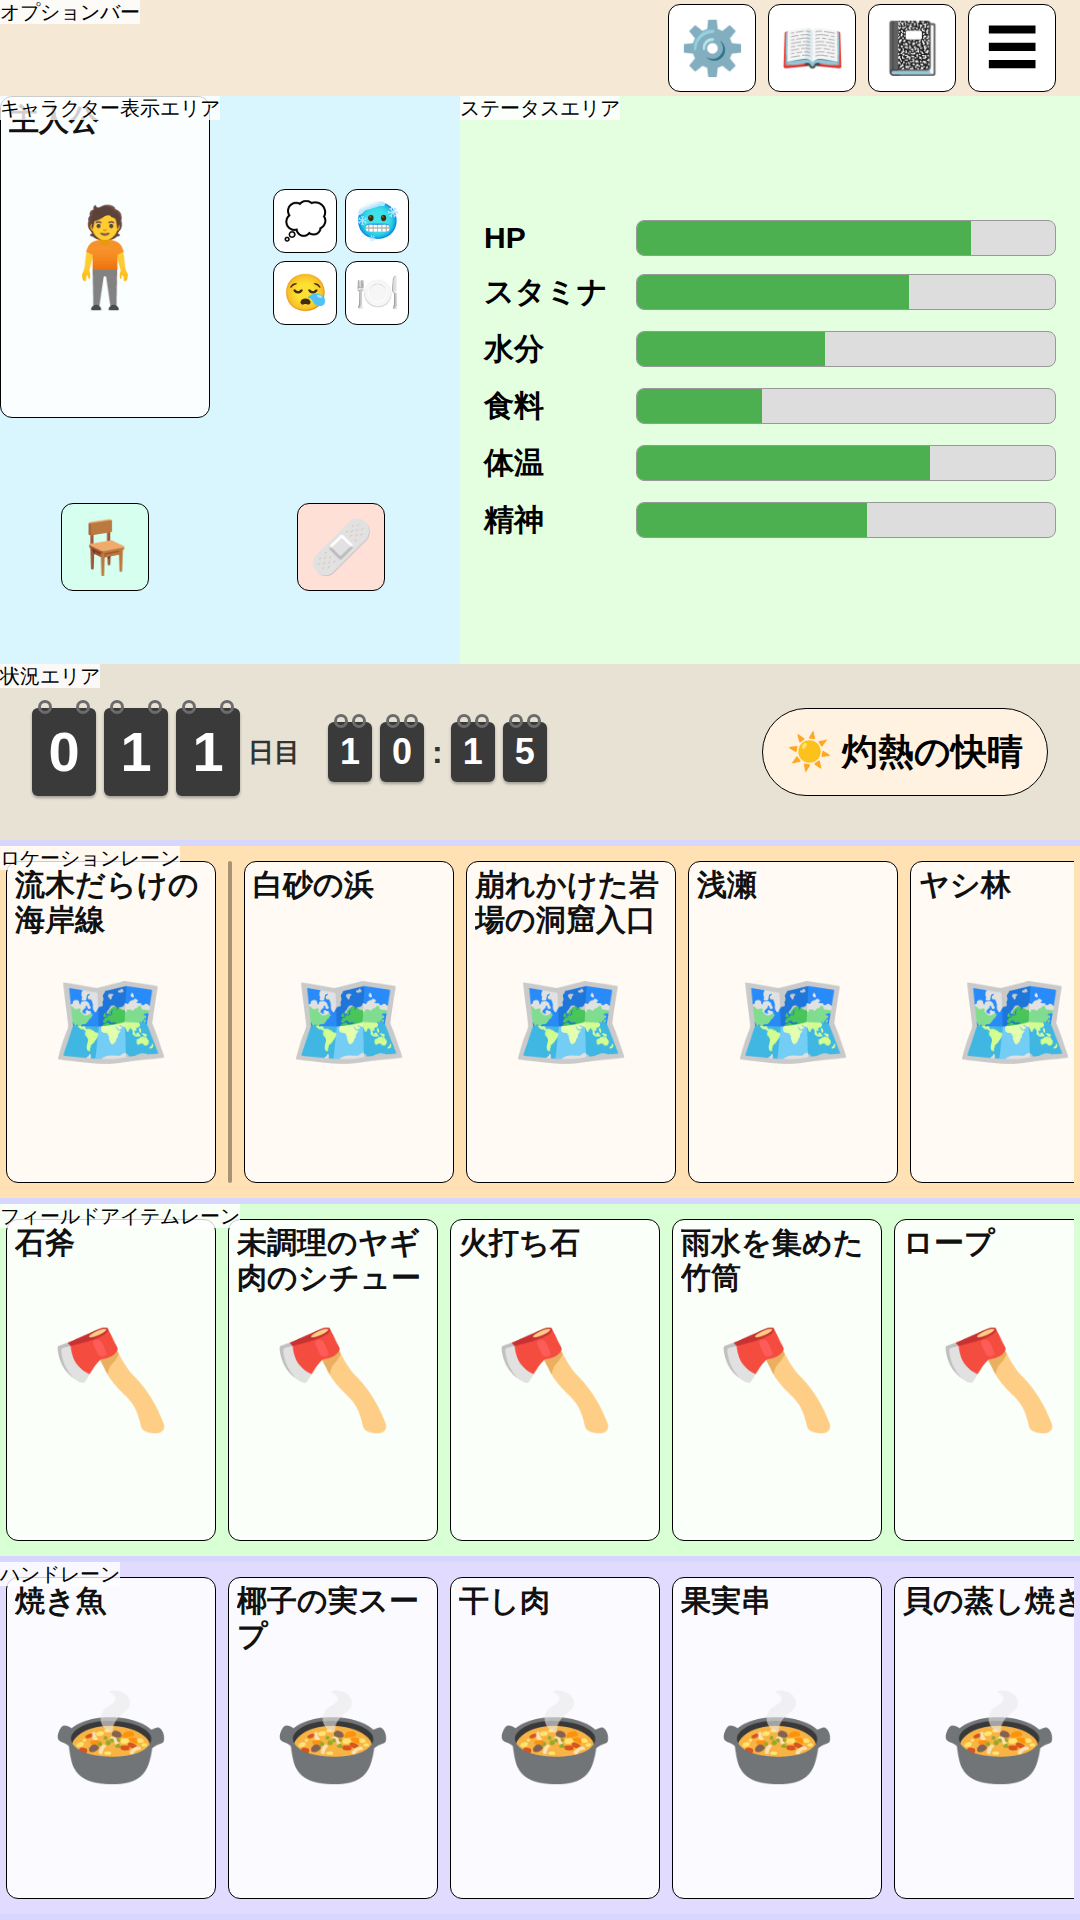
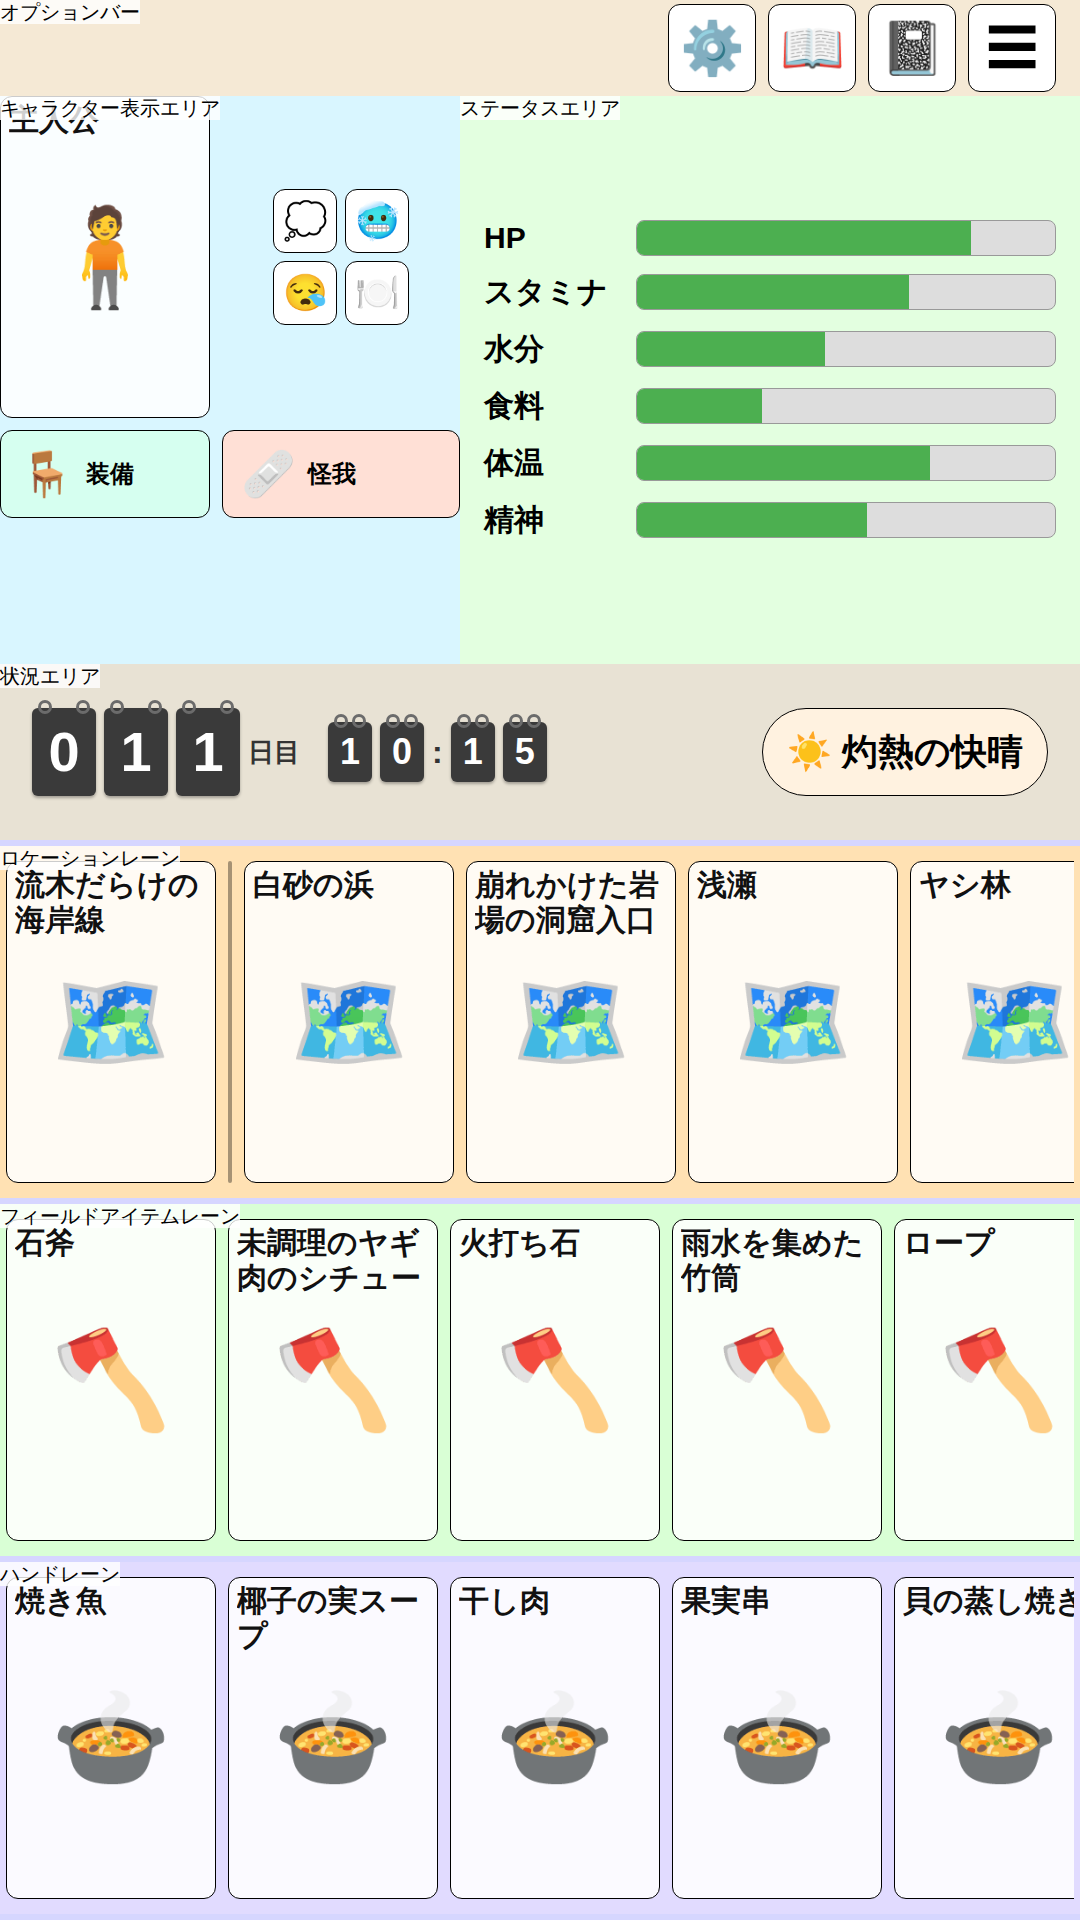
docs: 装備・怪我ボタンにラベルを復活させ、横型の配置を再構成
- 装備・怪我ボタンに「装備」「怪我」の固定ラベルをアイコンの右に表示。
  正方形ではなく列・セル幅いっぱいの横長ボタンにした（アイテム名は
  表示せず、タップ先の子ウィンドウで確認する想定）
- 横型のキャラクター表示エリアを、左にポートレイトカード、右の縦列に
  条件ボタンの行・装備ボタン・怪我ボタンを並べる構成に変更。縦型は
  従来どおり2x2グリッドのまま
- HTML側は info-column ラッパーに display:contents を使い、縦型では
  2x2グリッドの子として、横型では独立した縦並びのflex列として
  同じマークアップを再利用できるようにした

Claude-Session: https://claude.ai/code/session_017mz69xFpjWLJMvgraCLnuJ

Changed region(s): [[0.1833, 0.2188, 0.4278, 0.3125], [0.0306, 0.2188, 0.1222, 0.3125]]

diff --git a/Documents/UI/ScreenLayout_Mock.html b/Documents/UI/ScreenLayout_Mock.html
@@ -147,6 +147,11 @@
 
     .portrait-wrap { position: relative; }
 
+    /* 縦型: display:contents で自身を消し、子（条件セル・装備・怪我）を
+       character-display の2×2グリッドへそのまま参加させる。
+       横型ではこのラッパー自体が縦並びの列になる（横型メディアクエリ参照） */
+    .info-column { display: contents; }
+
     .portrait-card {
       width: var(--portrait-w);
       height: var(--portrait-h);
@@ -183,10 +188,23 @@
       font-size: calc(36 * var(--u));
     }
 
+    /* 装備・怪我は種別が分かるよう「装備」「怪我」の固定ラベルをアイコンの右に付ける
+       （アイテム名は表示せず、タップ先の子ウィンドウで確認する想定）。
+       正方形ではなく横長のボタンにするため、幅はセル・列いっぱいに広げる */
     .icon-button--equipment,
     .icon-button--injury {
-      justify-self: center;
-      align-self: center;
+      width: 100%;
+      justify-content: flex-start;
+      gap: calc(12 * var(--u));
+      padding: 0 calc(18 * var(--u));
+    }
+
+    .icon-button-icon { font-size: calc(44 * var(--u)); line-height: 1; }
+
+    .icon-button-label {
+      font-size: calc(24 * var(--u));
+      font-weight: 700;
+      line-height: 1;
     }
 
     .icon-button--equipment { background: #d6fff0; }
@@ -419,7 +437,8 @@
     @media (orientation: landscape) {
       /* 天候を日時から切り離し、状況エリアを日時だけの幅で済ませることで
          ダッシュボード列を絞り、浮いた横幅をフィールドエリアに回す。
-         キャラクター表示エリアは縦型と同じグリッド構造をそのまま使う */
+         キャラクター表示エリアは左にポートレイトカード、右の列に条件セル・
+         装備・怪我を縦に並べる構成に変える（縦型は2×2グリッドのまま） */
       .screen { flex-direction: row; }
 
       /* 天候が抜けて日時だけになった分、状況エリアの高さも内容に合わせて縮める。
@@ -444,8 +463,20 @@
 
       .character-display {
         width: 100%;
-        justify-content: center;
+        display: flex;
+        flex-direction: row;
+        align-items: flex-start;
       }
+
+      .info-column {
+        display: flex;
+        flex-direction: column;
+        flex: 1;
+        min-width: 0;
+        gap: var(--gap);
+      }
+
+      .condition-cell { justify-content: flex-start; }
 
       .status-area {
         flex: 1;
@@ -478,14 +509,20 @@
           <div class="portrait-wrap">
             <div class="card portrait-card"><span class="card-name">主人公</span></div>
           </div>
-          <div class="condition-cell">
-            <button class="icon-button icon-button--condition" type="button" aria-label="高揚" title="高揚">💭</button>
-            <button class="icon-button icon-button--condition" type="button" aria-label="寒気" title="寒気">🥶</button>
-            <button class="icon-button icon-button--condition" type="button" aria-label="疲労" title="疲労">😪</button>
-            <button class="icon-button icon-button--condition" type="button" aria-label="空腹" title="空腹">🍽</button>
+          <div class="info-column">
+            <div class="condition-cell">
+              <button class="icon-button icon-button--condition" type="button" aria-label="高揚" title="高揚">💭</button>
+              <button class="icon-button icon-button--condition" type="button" aria-label="寒気" title="寒気">🥶</button>
+              <button class="icon-button icon-button--condition" type="button" aria-label="疲労" title="疲労">😪</button>
+              <button class="icon-button icon-button--condition" type="button" aria-label="空腹" title="空腹">🍽</button>
+            </div>
+            <button class="icon-button icon-button--equipment" type="button" aria-label="折りたたみ椅子" title="折りたたみ椅子">
+              <span class="icon-button-icon">🪑</span><span class="icon-button-label">装備</span>
+            </button>
+            <button class="icon-button icon-button--injury" type="button" aria-label="擦り傷" title="擦り傷">
+              <span class="icon-button-icon">🩹</span><span class="icon-button-label">怪我</span>
+            </button>
           </div>
-          <button class="icon-button icon-button--equipment" type="button" aria-label="折りたたみ椅子" title="折りたたみ椅子">🪑</button>
-          <button class="icon-button icon-button--injury" type="button" aria-label="擦り傷" title="擦り傷">🩹</button>
         </div>
         <div class="status-area">
           <div class="label">ステータスエリア</div>
